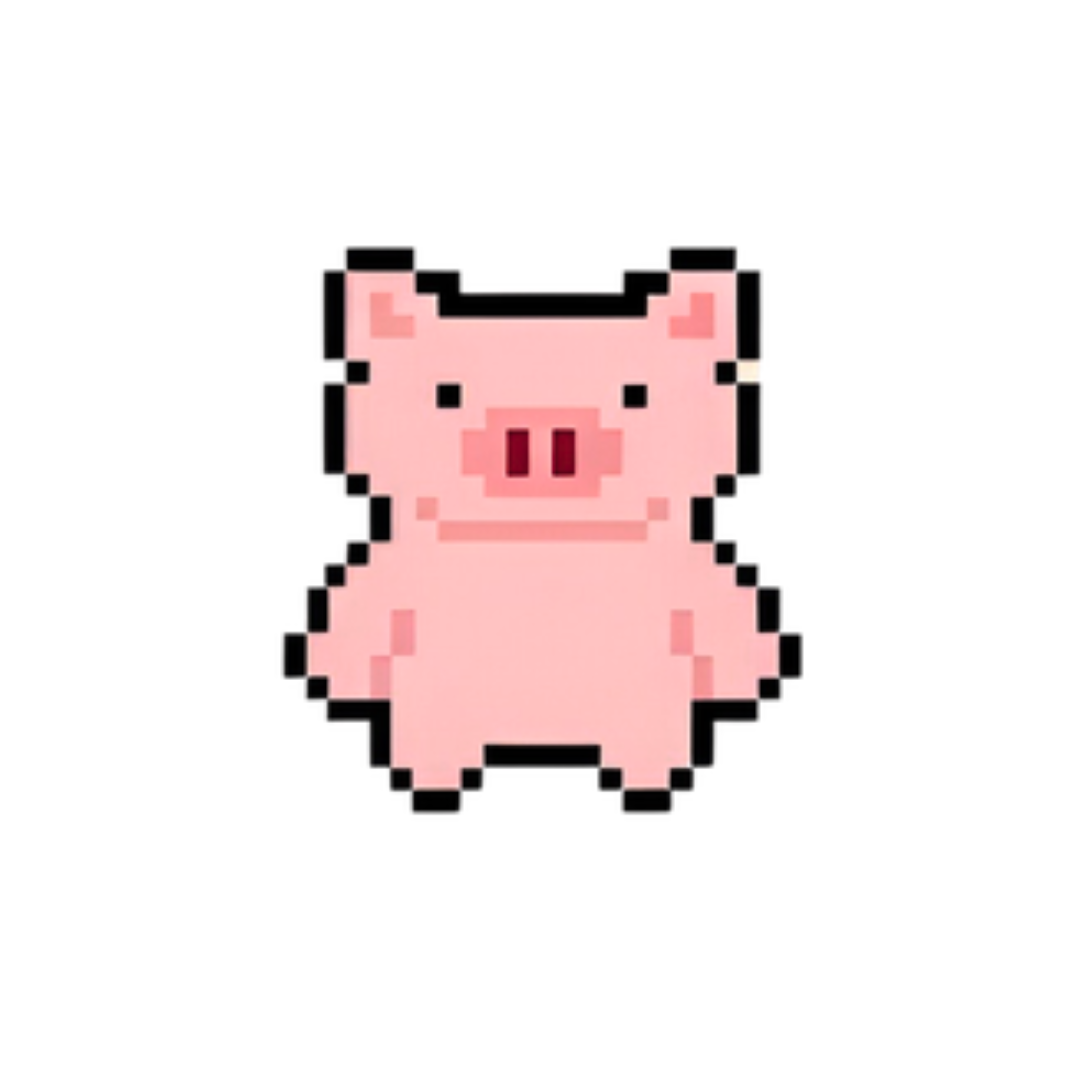
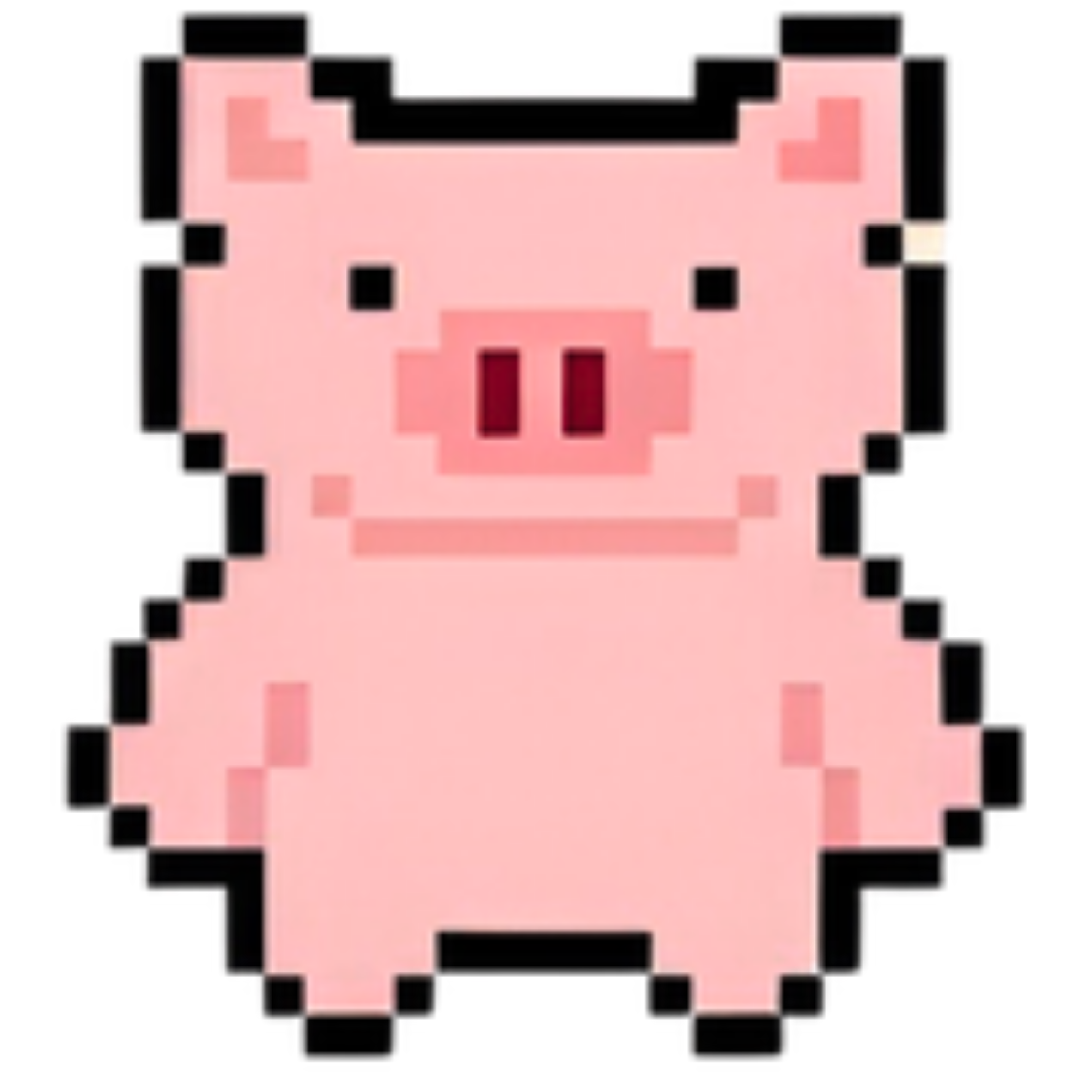
added the assets and fixed the backend integration for the home tab

diff --git a/src/app/App.tsx b/src/app/App.tsx
@@ -14,6 +14,7 @@ import { DebtPaymentModal } from './components/DebtPaymentModal';
 import { AddDebtModal } from './components/AddDebtModal';
 import { DebtCompletionModal } from './components/DebtCompletionModal';
 import { PigGoalModal } from './components/PigGoalModal';
+import { AddWalletModal } from './components/AddWalletModal';
 import pigAvatar from '../imports/Neutral-1.png';
 import farmBackground from '../imports/Screenshot_2026-05-06_at_15.44.08.png';
 import farmScene from '../imports/farm__no_pigs_.png';
@@ -70,6 +71,7 @@ export default function App() {
   const [selectedDebt, setSelectedDebt] = useState<Debt | null>(null);
   const [showDebtPaymentModal, setShowDebtPaymentModal] = useState(false);
   const [showAddDebtModal, setShowAddDebtModal] = useState(false);
+  const [showAddWalletModal, setShowAddWalletModal] = useState(false);
   const [completedDebt, setCompletedDebt] = useState<Debt | null>(null);
   const [coins, setCoins] = useState(67);
   const [streak, setStreak] = useState(57);
@@ -125,7 +127,7 @@ export default function App() {
   const selectedFarm = farms.find(f => f.id === selectedFarmId) || farms[0];
 
   // Wallet balances
-  const [walletBalances, setWalletBalances] = useState({
+  const [walletBalances, setWalletBalances] = useState<Record<string, number>>({
     'Cash': 5000,
     'GCash': 5000,
     'Landbank': 5000,
@@ -348,6 +350,30 @@ export default function App() {
     setShowAddDebtModal(false);
   };
 
+  // Handle adding new wallet
+  const handleAddWallet = (walletData: { name: string; amount: number }) => {
+    setWalletBalances(prev => ({
+      ...prev,
+      [walletData.name]: walletData.amount
+    }));
+    setShowAddWalletModal(false);
+  };
+
+  // Helper for dynamic wallet styles
+  const getWalletStyle = (name: string, index: number) => {
+    switch (name) {
+      case 'Cash': return { bg: 'bg-[#FFD966]', icon: '💰', bgIcon: '💰', bgIconClass: 'text-3xl opacity-50' };
+      case 'GCash': return { bg: 'bg-[#64B5F6]', icon: '💳', bgIcon: <div className="w-8 h-8 bg-[#2196F3] rounded-full border-2 border-[#3E2723] flex items-center justify-center"><span className="text-white font-bold text-xs">G</span></div>, bgIconClass: '' };
+      case 'Landbank': return { bg: 'bg-[#A8D5BA]', icon: '🏦', bgIcon: '💳', bgIconClass: 'text-2xl opacity-50' };
+      case 'BPI': return { bg: 'bg-[#EF9A9A]', icon: '🏦', bgIcon: '💳', bgIconClass: 'text-2xl opacity-50' };
+      case 'Maya': return { bg: 'bg-[#CE93D8]', icon: '💳', bgIcon: '💳', bgIconClass: 'text-2xl opacity-50' };
+      case 'BDO': return { bg: 'bg-[#81D4FA]', icon: '🏦', bgIcon: '🏦', bgIconClass: 'text-2xl opacity-50' };
+      default: 
+        const colors = ['bg-[#FFCC80]', '#BCAAA4', 'bg-[#B2DFDB]', 'bg-[#FFAB91]', 'bg-[#9FA8DA]'];
+        return { bg: colors[index % colors.length], icon: '💳', bgIcon: '💳', bgIconClass: 'text-2xl opacity-50' };
+    }
+  };
+
   // Handle removing completed debt
   const handleRemoveDebt = () => {
     if (!completedDebt) return;
@@ -443,32 +469,61 @@ export default function App() {
         <div className="flex-1 overflow-y-auto pb-20">
           {activeTab === 'home' && (
             <div className="p-4 space-y-4">
-              {/* Greeting */}
-              <div className="text-center">
-                <h1 className="font-['Press_Start_2P'] text-sm text-[#D2691E] mb-1">
-                  Good {getCurrentTime()}!
-                </h1>
-                <p className="text-xs text-[#6D4C41]">
-                  {new Date().toLocaleDateString('en-US', {
-                    weekday: 'long',
-                    year: 'numeric',
-                    month: 'long',
-                    day: 'numeric'
-                  })}
-                </p>
+              {/* Greeting & Streak */}
+              <div className="relative flex justify-center items-center">
+                <div className="text-center">
+                  <h1 className="font-['Press_Start_2P'] text-sm text-[#D2691E] mb-1">
+                    Good {getCurrentTime()}!
+                  </h1>
+                  <p className="text-xs text-[#6D4C41]">
+                    {new Date().toLocaleDateString('en-US', {
+                      weekday: 'long',
+                      year: 'numeric',
+                      month: 'long',
+                      day: 'numeric'
+                    })}
+                  </p>
+                </div>
+                <div 
+                  className="absolute right-0 flex items-center gap-1 bg-gradient-to-r from-[#FFD966] to-[#FFA726] px-2 py-1 rounded border-2 border-[#3E2723] shadow-[2px_2px_0_0_#3E2723] cursor-pointer hover:scale-105 transition-transform"
+                  onClick={() => alert('Streak history coming soon!')}
+                >
+                  <span className="text-xs">🔥</span>
+                  <span className="font-['Press_Start_2P'] text-[10px] text-[#3E2723]">{streak}</span>
+                </div>
               </div>
 
               {/* Pig Display */}
-              <PigDisplay state={pigState} />
+              <PigDisplay 
+                state={pigState} 
+                dailyBudget={{ spent: monthlyStats.totalSpent, total: budget.daily.total }} 
+              />
 
-              {/* Budget Bars */}
-              <BudgetBars budget={{
-                daily: { spent: monthlyStats.totalSpent, total: budget.daily.total },
-                monthly: { spent: monthlyStats.totalSpent, total: budget.monthly.total }
-              }} />
 
-              {/* Streak Card */}
-              <StreakCard streak={streak} />
+              {/* Wallet Cards Grid */}
+              <div className="grid grid-cols-2 gap-3">
+                {Object.entries(walletBalances).map(([name, balance], index) => {
+                  const style = getWalletStyle(name, index);
+                  return (
+                    <div key={name} className={`${style.bg} border-4 border-[#3E2723] rounded-lg p-4 shadow-[4px_4px_0_0_#6D4C41] relative overflow-hidden`}>
+                      <div className="flex justify-between items-start mb-2">
+                        <span className="font-['Press_Start_2P'] text-[9px] text-[#3E2723]">{name}</span>
+                        <span className="text-xs">{style.icon}</span>
+                      </div>
+                      <p className="font-['Press_Start_2P'] text-sm text-[#3E2723] mb-2">{balance.toLocaleString()}</p>
+                      <div className={`absolute bottom-2 right-2 ${style.bgIconClass}`}>{style.bgIcon}</div>
+                    </div>
+                  );
+                })}
+              </div>
+
+              {/* Add Account Button */}
+              <button 
+                onClick={() => setShowAddWalletModal(true)}
+                className="w-full bg-[#3E2723] hover:bg-[#6D4C41] border-4 border-[#3E2723] rounded-lg py-3 font-['Press_Start_2P'] text-[9px] text-[#A8D5BA] shadow-[4px_4px_0_0_#6D4C41] active:shadow-[2px_2px_0_0_#6D4C41] active:translate-x-[2px] active:translate-y-[2px] transition-all"
+              >
+                + add account
+              </button>
             </div>
           )}
 
@@ -716,55 +771,7 @@ export default function App() {
                 </div>
               </div>
 
-              {/* Wallet Cards Grid */}
-              <div className="grid grid-cols-2 gap-3">
-                {/* Cash */}
-                <div className="bg-[#FFD966] border-4 border-[#3E2723] rounded-lg p-4 shadow-[4px_4px_0_0_#6D4C41] relative overflow-hidden">
-                  <div className="flex justify-between items-start mb-2">
-                    <span className="font-['Press_Start_2P'] text-[9px] text-[#3E2723]">Cash</span>
-                    <span className="text-xs">💰</span>
-                  </div>
-                  <p className="font-['Press_Start_2P'] text-sm text-[#3E2723] mb-2">{walletBalances['Cash'].toLocaleString()}</p>
-                  <div className="absolute bottom-2 right-2 text-3xl opacity-50">💰</div>
-                </div>
 
-                {/* GCash */}
-                <div className="bg-[#64B5F6] border-4 border-[#3E2723] rounded-lg p-4 shadow-[4px_4px_0_0_#6D4C41] relative overflow-hidden">
-                  <div className="flex justify-between items-start mb-2">
-                    <span className="font-['Press_Start_2P'] text-[9px] text-[#3E2723]">GCash</span>
-                    <span className="text-xs">💳</span>
-                  </div>
-                  <p className="font-['Press_Start_2P'] text-sm text-[#3E2723] mb-2">{walletBalances['GCash'].toLocaleString()}</p>
-                  <div className="absolute bottom-2 right-2 w-8 h-8 bg-[#2196F3] rounded-full border-2 border-[#3E2723] flex items-center justify-center">
-                    <span className="text-white font-bold text-xs">G</span>
-                  </div>
-                </div>
-
-                {/* Landbank */}
-                <div className="bg-[#A8D5BA] border-4 border-[#3E2723] rounded-lg p-4 shadow-[4px_4px_0_0_#6D4C41] relative overflow-hidden">
-                  <div className="flex justify-between items-start mb-2">
-                    <span className="font-['Press_Start_2P'] text-[9px] text-[#3E2723]">Landbank</span>
-                    <span className="text-xs">🏦</span>
-                  </div>
-                  <p className="font-['Press_Start_2P'] text-sm text-[#3E2723] mb-2">{walletBalances['Landbank'].toLocaleString()}</p>
-                  <div className="absolute bottom-2 right-2 text-2xl">💳</div>
-                </div>
-
-                {/* BPI */}
-                <div className="bg-[#EF9A9A] border-4 border-[#3E2723] rounded-lg p-4 shadow-[4px_4px_0_0_#6D4C41] relative overflow-hidden">
-                  <div className="flex justify-between items-start mb-2">
-                    <span className="font-['Press_Start_2P'] text-[9px] text-[#3E2723]">BPI</span>
-                    <span className="text-xs">🏦</span>
-                  </div>
-                  <p className="font-['Press_Start_2P'] text-sm text-[#3E2723] mb-2">{walletBalances['BPI'].toLocaleString()}</p>
-                  <div className="absolute bottom-2 right-2 text-2xl">💳</div>
-                </div>
-              </div>
-
-              {/* Add Account Button */}
-              <button className="w-full bg-[#3E2723] hover:bg-[#6D4C41] border-4 border-[#3E2723] rounded-lg py-3 font-['Press_Start_2P'] text-[9px] text-[#A8D5BA] shadow-[4px_4px_0_0_#6D4C41] active:shadow-[2px_2px_0_0_#6D4C41] active:translate-x-[2px] active:translate-y-[2px] transition-all">
-                + add account
-              </button>
 
               {/* Goals & Savings */}
               <div className="bg-white border-4 border-[#3E2723] rounded-lg overflow-hidden shadow-[4px_4px_0_0_#6D4C41]">
@@ -939,6 +946,14 @@ export default function App() {
           pigNumber={selectedPigIndex + 1}
           goal={selectedFarm.pigGoals[selectedPigIndex]}
           onClose={() => setSelectedPigIndex(null)}
+        />
+      )}
+
+      {/* Add Wallet Modal */}
+      {showAddWalletModal && (
+        <AddWalletModal
+          onClose={() => setShowAddWalletModal(false)}
+          onSubmit={handleAddWallet}
         />
       )}
     </div>

diff --git a/src/app/components/AddWalletModal.tsx b/src/app/components/AddWalletModal.tsx
@@ -1,0 +1,90 @@
+import { useState } from 'react';
+import { X } from 'lucide-react';
+
+interface AddWalletModalProps {
+  onClose: () => void;
+  onSubmit: (walletData: {
+    name: string;
+    amount: number;
+  }) => void;
+}
+
+export function AddWalletModal({ onClose, onSubmit }: AddWalletModalProps) {
+  const [name, setName] = useState('');
+  const [amount, setAmount] = useState('');
+
+  const handleSubmit = (e: React.FormEvent) => {
+    e.preventDefault();
+    onSubmit({
+      name,
+      amount: parseFloat(amount) || 0
+    });
+  };
+
+  return (
+    <div className="fixed inset-0 z-50 flex items-end justify-center bg-black/80 backdrop-blur-sm">
+      <div className="w-full max-w-md bg-[#F5DEB3] border-t-4 border-[#8D6E63] rounded-t-3xl max-h-[90vh] overflow-y-auto">
+        {/* Header */}
+        <div className="sticky top-0 bg-[#A8D5BA] px-6 py-4 border-b-4 border-[#8D6E63] flex items-center justify-between shadow-[0_4px_0_0_#6D4C41]">
+          <h2 className="font-['Press_Start_2P'] text-xs text-[#3E2723]">
+            ADD NEW WALLET
+          </h2>
+          <button
+            onClick={onClose}
+            className="text-[#3E2723] hover:text-[#D2691E] transition-colors"
+          >
+            <X size={24} />
+          </button>
+        </div>
+
+        {/* Form */}
+        <form onSubmit={handleSubmit} className="p-6 space-y-6">
+          {/* Wallet Name */}
+          <div>
+            <label className="block font-['Press_Start_2P'] text-[8px] text-[#D2691E] mb-3">
+              WALLET NAME
+            </label>
+            <input
+              type="text"
+              value={name}
+              onChange={(e) => setName(e.target.value)}
+              placeholder="e.g., Savings, Metrobank"
+              className="w-full bg-white border-4 border-[#8D6E63] rounded-lg px-4 py-3 text-[#3E2723] placeholder-[#BCAAA4] focus:outline-none focus:border-[#D2691E] shadow-[4px_4px_0_0_#6D4C41]"
+              autoFocus
+              required
+            />
+          </div>
+
+          {/* Amount */}
+          <div>
+            <label className="block font-['Press_Start_2P'] text-[8px] text-[#D2691E] mb-3">
+              INITIAL BALANCE
+            </label>
+            <div className="relative">
+              <span className="absolute left-4 top-1/2 -translate-y-1/2 text-2xl text-[#6D4C41]">
+                ₱
+              </span>
+              <input
+                type="number"
+                value={amount}
+                onChange={(e) => setAmount(e.target.value)}
+                placeholder="0.00"
+                className="w-full bg-white border-4 border-[#8D6E63] rounded-lg pl-12 pr-4 py-4 text-2xl text-[#3E2723] placeholder-[#BCAAA4] focus:outline-none focus:border-[#D2691E] shadow-[4px_4px_0_0_#6D4C41]"
+                required
+              />
+            </div>
+          </div>
+
+          {/* Submit Button */}
+          <button
+            type="submit"
+            disabled={!name || !amount}
+            className="w-full bg-[#FFD966] hover:bg-[#FFD966]/80 disabled:bg-[#BCAAA4] disabled:cursor-not-allowed border-4 border-[#8D6E63] rounded-lg py-4 font-['Press_Start_2P'] text-xs text-[#3E2723] transition-all hover:scale-105 active:scale-95 shadow-[4px_4px_0_0_#6D4C41] active:shadow-[2px_2px_0_0_#6D4C41]"
+          >
+            ADD WALLET
+          </button>
+        </form>
+      </div>
+    </div>
+  );
+}

diff --git a/src/app/components/BudgetBars.tsx b/src/app/components/BudgetBars.tsx
@@ -1,12 +1,10 @@
 interface BudgetBarsProps {
   budget: {
-    daily: { spent: number; total: number };
     monthly: { spent: number; total: number };
   };
 }
 
 export function BudgetBars({ budget }: BudgetBarsProps) {
-  const getDailyPercentage = () => (budget.daily.spent / budget.daily.total) * 100;
   const getMonthlyPercentage = () => (budget.monthly.spent / budget.monthly.total) * 100;
 
   const getBarColor = (percentage: number) => {
@@ -21,40 +19,6 @@ export function BudgetBars({ budget }: BudgetBarsProps) {
 
   return (
     <div className="space-y-3">
-      {/* Today's Budget */}
-      <div className="bg-white border-4 border-[#8D6E63] rounded-lg p-4 shadow-[4px_4px_0_0_#6D4C41]">
-        <div className="flex justify-between items-center mb-2">
-          <span className="font-['Press_Start_2P'] text-[8px] text-[#D2691E]">TODAY</span>
-          <span className="text-xs text-[#6D4C41]">
-            {formatCurrency(budget.daily.spent)} / {formatCurrency(budget.daily.total)}
-          </span>
-        </div>
-
-        <div className="relative h-6 bg-[#E8D5B7] rounded border-3 border-[#3E2723] overflow-hidden">
-          <div
-            className="absolute inset-y-0 left-0 transition-all duration-500"
-            style={{
-              width: `${Math.min(getDailyPercentage(), 100)}%`,
-              background: getBarColor(getDailyPercentage())
-            }}
-          />
-          <div className="absolute inset-0 flex items-center justify-center">
-            <span className="font-['Press_Start_2P'] text-[8px] text-[#3E2723] drop-shadow-[0_1px_2px_rgba(255,255,255,0.8)]">
-              {Math.round(getDailyPercentage())}%
-            </span>
-          </div>
-          {/* Pixel effect overlay */}
-          <div className="absolute inset-0 opacity-10"
-               style={{
-                 backgroundImage: 'repeating-linear-gradient(90deg, transparent, transparent 2px, rgba(0,0,0,0.3) 2px, rgba(0,0,0,0.3) 4px)'
-               }} />
-        </div>
-
-        <p className="text-[10px] text-[#6D4C41] mt-1 text-right">
-          {formatCurrency(budget.daily.total - budget.daily.spent)} remaining
-        </p>
-      </div>
-
       {/* This Month's Budget */}
       <div className="bg-white border-4 border-[#8D6E63] rounded-lg p-4 shadow-[4px_4px_0_0_#6D4C41]">
         <div className="flex justify-between items-center mb-2">

diff --git a/src/app/components/PigDisplay.tsx b/src/app/components/PigDisplay.tsx
@@ -7,9 +7,16 @@ interface PigDisplayProps {
     foodLevel: number;
     mood: string;
   };
+  dailyBudget?: {
+    spent: number;
+    total: number;
+  };
 }
 
-export function PigDisplay({ state }: PigDisplayProps) {
+export function PigDisplay({ state, dailyBudget }: PigDisplayProps) {
+  const budgetPercent = dailyBudget 
+    ? Math.min(100, Math.round((dailyBudget.spent / dailyBudget.total) * 100))
+    : 80;
   return (
     <div className="relative rounded-lg overflow-hidden border-4 border-[#8D6E63] min-h-[280px] shadow-[4px_4px_0_0_#6D4C41]"
          style={{
@@ -22,7 +29,7 @@ export function PigDisplay({ state }: PigDisplayProps) {
         {/* Speech bubble */}
         <div className="relative bg-white text-[#3E2723] px-3 py-2 rounded-lg border-4 border-[#3E2723] max-w-[200px] shadow-[3px_3px_0_0_#6D4C41]">
           <p className="font-['Press_Start_2P'] text-[8px] text-center leading-relaxed">
-            {state.state === 'happy' && "Saved 80% for new phone"}
+            {state.state === 'happy' && (dailyBudget ? `Budget: ₱${dailyBudget.spent}/₱${dailyBudget.total}` : "Saved 80% for new phone")}
             {state.state === 'full' && "I'm so full!"}
             {state.state === 'worried' && "Budget getting low..."}
             {state.state === 'sad' && "Please save more!"}
@@ -34,10 +41,10 @@ export function PigDisplay({ state }: PigDisplayProps) {
           <div className="mt-2 bg-[#E8D5B7] h-2 rounded-full overflow-hidden border-2 border-[#3E2723]">
             <div
               className="h-full bg-[#81C784] transition-all duration-500"
-              style={{ width: `${state.foodLevel}%` }}
+              style={{ width: `${budgetPercent}%` }}
             />
           </div>
-          <p className="text-[6px] text-center mt-1 text-[#6D4C41]">80%</p>
+          <p className="text-[6px] text-center mt-1 text-[#6D4C41]">{budgetPercent}% spent</p>
 
           {/* Speech bubble pointer - pointing down */}
           <div className="absolute -bottom-3 left-1/2 -translate-x-1/2 w-0 h-0 border-l-[8px] border-r-[8px] border-t-[10px] border-l-transparent border-r-transparent border-t-white" />
